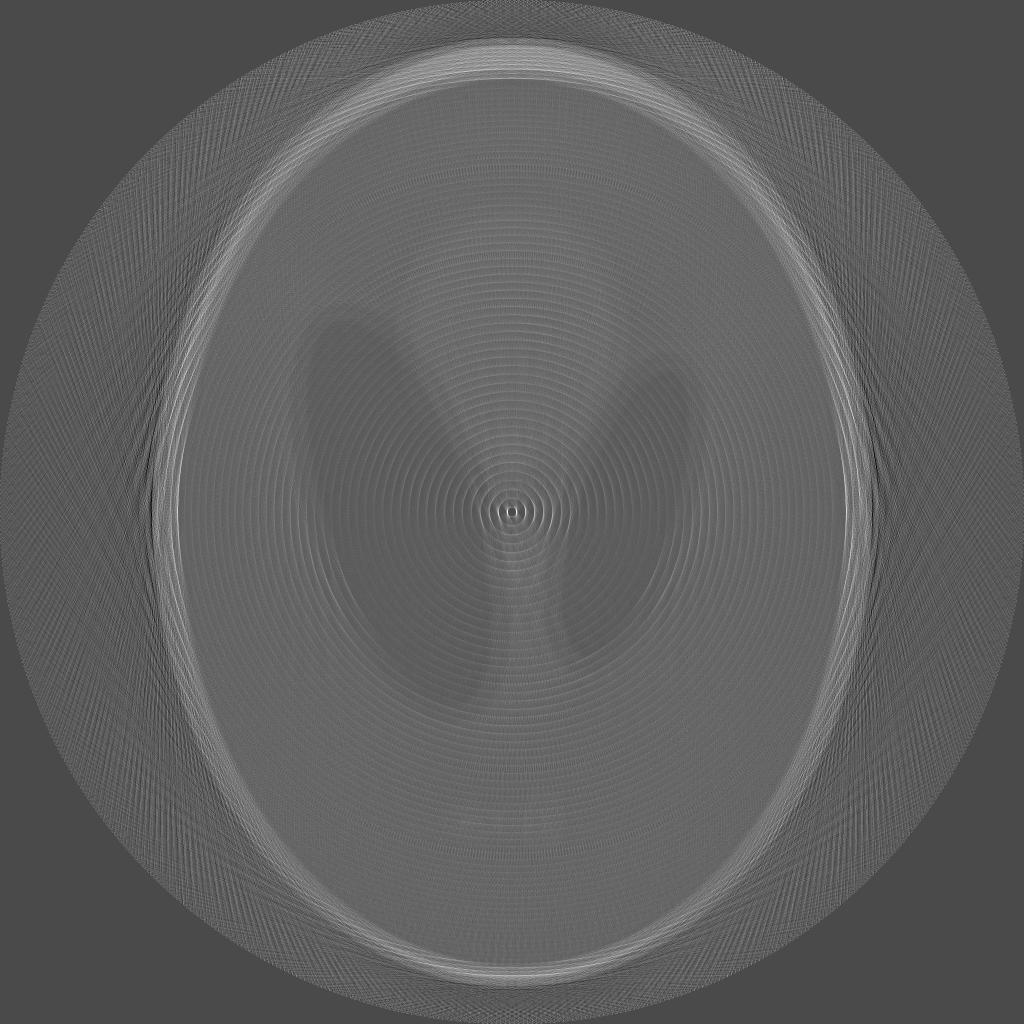
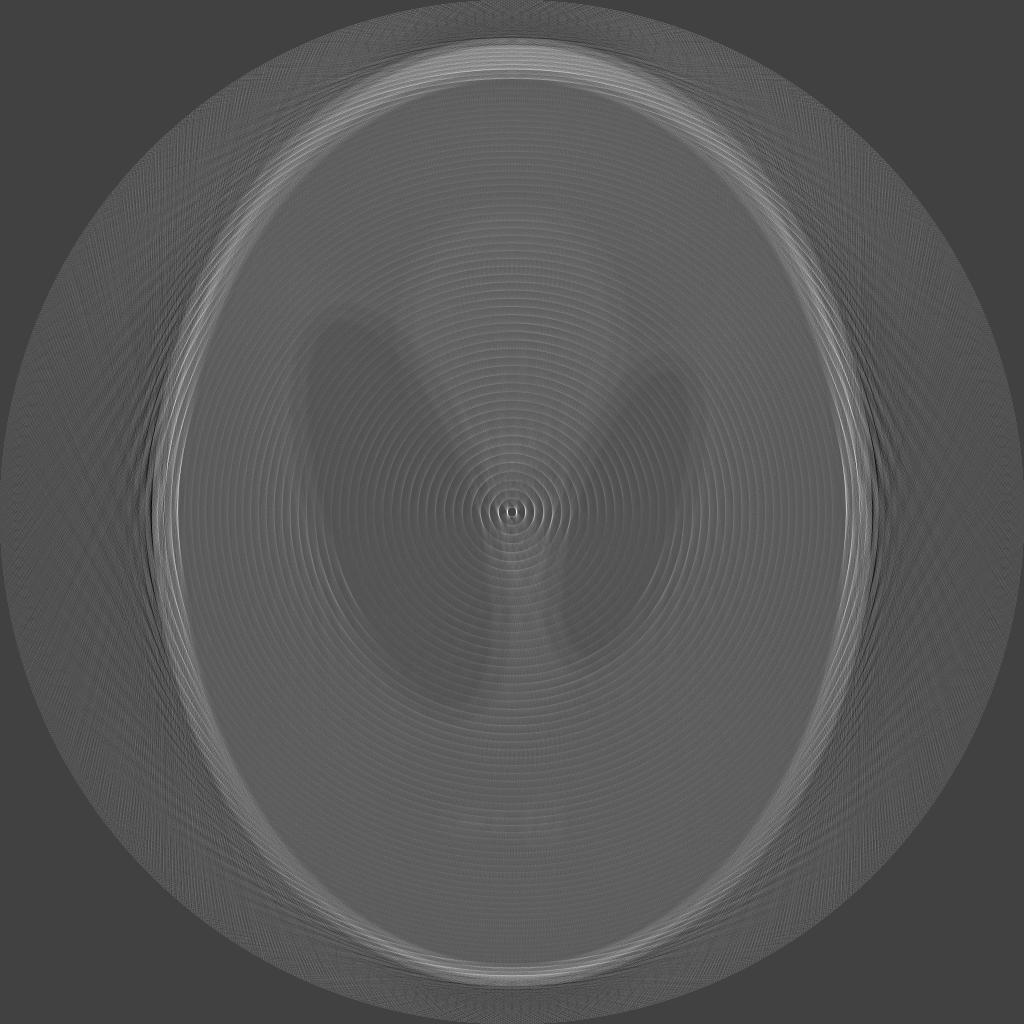
producted some images

diff --git a/Backend/main.py b/Backend/main.py
@@ -1,7 +1,7 @@
 from Backend.Tomograph import Tomograph
 
 tomograph = Tomograph()
-tomograph.run("../ExampleImages/Shepp_logan.jpg", 1, 180, 180, True, None,
+tomograph.run("../ExampleImages/Shepp_logan.jpg", 10, 180, 270, True, None,
               False, dict(
     PatientName='Test',
     PatientID='001',
